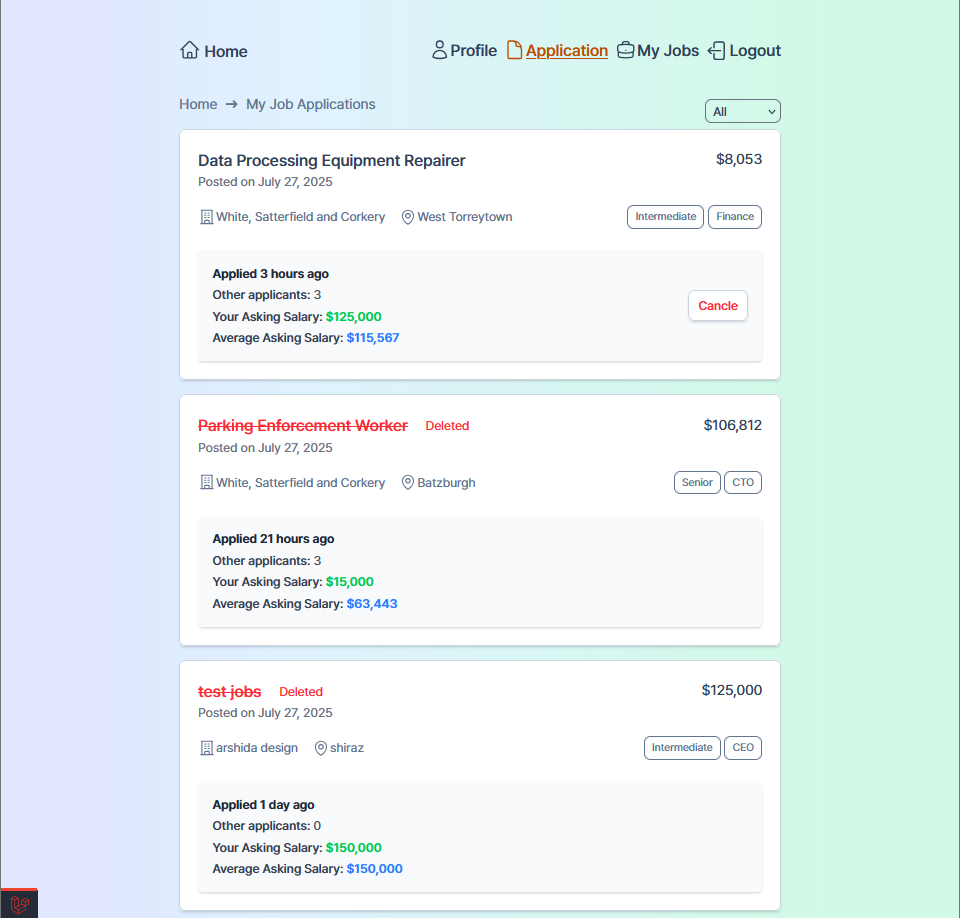
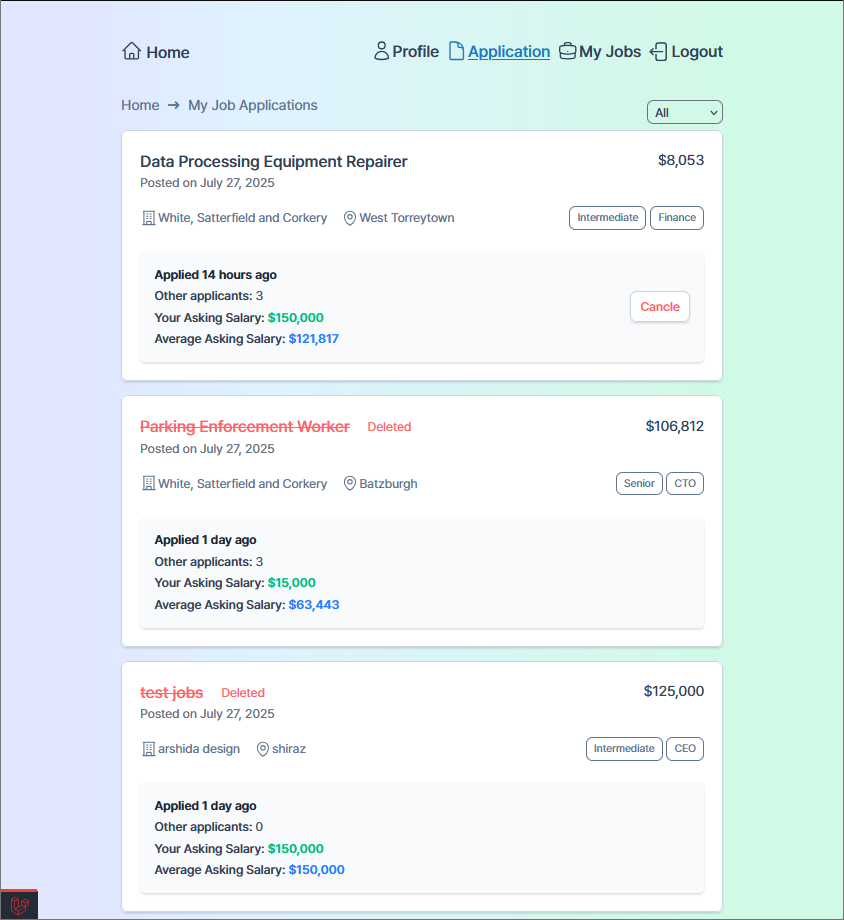
Rafactor ui

diff --git a/resources/views/auth/profile/index.blade.php b/resources/views/auth/profile/index.blade.php
@@ -1,24 +1,23 @@
 <x-layout>
     <x-breadcrumbs class="mb-4" :links="['Profile' => '#']" />
     <x-card class="space-y-4">
-        <h2 class="text-xl font-semibold text-gray-800">Your Profile</h2>
+        <div class="flex items-center justify-between">
+            <div><h2 class="text-xl font-semibold text-gray-800">Your Profile</h2></div>
+            <div class="text-sm text-slate-500"><span class="font-medium">Member since:</span> {{ auth()->user()->created_at->format('F Y') }}</div>
+        </div>
 
-        <div class="flex items-center space-x-4">
-            <div class="w-13 h-13 rounded-full bg-gray-200 flex items-center justify-center text-2xl text-gray-600">
-                <img  src="{{asset('images/profile.png')}}" alt="Profile picture">
+
+        <div class="flex items-center space-x-4 mt-6">
+            <div class="w-13 h-13 rounded-full bg-gray-200  flex items-center justify-center text-2xl text-gray-600">
+                <img src="{{ asset('images/profile.png') }}" alt="Profile picture">
             </div>
             <div>
                 <p class="text-lg font-medium text-gray-700">{{ auth()->user()->name }}</p>
                 <p class="text-sm text-gray-500">{{ auth()->user()->email }}</p>
             </div>
         </div>
-
-        <div class="grid grid-cols-1 sm:grid-cols-2 gap-4 pt-4 text-gray-600">
-            <div><span class="font-medium">Member since:</span> {{ auth()->user()->created_at->format('F Y') }}</div>
-
-        </div>
-        <div class="mt-6">
-            <h3 class="text-lg font-semibold text-gray-800 mb-2">Your Job Statistics</h3>
+        <div class="mt-15">
+            <h3 class="text-lg font-semibold text-gray-800 mb-6">Your Job Statistics</h3>
             <div class="grid grid-cols-1 sm:grid-cols-2 gap-4">
                 <a href="{{ route('my-job-applications.index') }}">
                     <div class="rounded-lg border border-gray-200 p-4 shadow-sm bg-white">
@@ -27,7 +26,7 @@
                             Active:
                             {{ auth()->user()->jobApplications()->whereHas('job', fn($q) => $q->whereNull('deleted_at'))->count() ?? 0 }}
                         </p>
-                        <p class=" font-bold text-red-500">
+                        <p class=" font-bold text-red-400">
                             Deleted:
                             {{ auth()->user()->jobApplications()->whereHas('job', fn($q) => $q->onlyTrashed())->count() ?? 0 }}
                         </p>
@@ -46,7 +45,7 @@
                             <p class=" font-bold text-green-600">
                                 Active: {{ auth()->user()->employer?->jobs()->count() ?? 0 }}
                             </p>
-                            <p class=" font-bold text-red-500">
+                            <p class=" font-bold text-red-400">
                                 Deleted: {{ auth()->user()->employer?->jobs()->onlyTrashed()->count() ?? 0 }}
                             </p>
                         </div>
@@ -62,7 +61,7 @@
             @endphp
 
             <div class="mt-10">
-                <h3 class="text-lg font-semibold text-gray-800 mb-2">Your Sessions</h3>
+                <h3 class="text-lg font-semibold text-gray-800 mb-6">Your Sessions</h3>
                 <div class="rounded-lg border border-gray-200 p-4 shadow-sm bg-white">
                     @forelse ($sessions as $session)
                         <div
@@ -84,9 +83,15 @@
                                 <form method="POST" action="{{ route('sessions.destroy', $session->id) }}">
                                     @csrf
                                     @method('DELETE')
-                                    <button class="cursor-pointer bg-red-500 hover:bg-red-600 text-white text-sm px-3 py-1 rounded">
-                                        Logout
-                                    </button>
+                                    <div
+                                        class="flex items-center justify-between cursor-pointer  text-white text-sm  px-3 py-1 rounded bg-red-400 hover:bg-red-500">
+                                        <div><svg xmlns="http://www.w3.org/2000/svg" fill="none" viewBox="0 0 24 24"
+                                                stroke-width="1.5" stroke="currentColor" class="w-5 h-5">
+                                                <path stroke-linecap="round" stroke-linejoin="round"
+                                                    d="M8.25 9V5.25A2.25 2.25 0 0 1 10.5 3h6a2.25 2.25 0 0 1 2.25 2.25v13.5A2.25 2.25 0 0 1 16.5 21h-6a2.25 2.25 0 0 1-2.25-2.25V15m-3 0-3-3m0 0 3-3m-3 3H15" />
+                                            </svg></div>
+                                        <div><button class="cursor-pointer">Logout</button></div>
+                                    </div>
                                 </form>
                             @endif
                         </div>
@@ -98,19 +103,34 @@
 
         </div>
         <div class="pt-6 flex items-center justify-between">
-            <div class="flex">
-                <div class="mr-3"><a href="{{ route('auth.profile.edit') }}"
-                        class="inline-block bg-emerald-600 text-white text-sm px-4 py-2 rounded hover:bg-emerald-700 transition">
+            <div class="flex gap-3">
+                <div>
+                    <a href="{{ route('auth.profile.edit') }}"
+                        class="inline-flex items-center gap-1 bg-emerald-500 text-white text-sm px-4 py-2 rounded hover:bg-emerald-600 transition">
+                        <svg xmlns="http://www.w3.org/2000/svg" fill="none" viewBox="0 0 24 24" stroke-width="1.5"
+                            stroke="currentColor" class="w-5 h-5">
+                            <path stroke-linecap="round" stroke-linejoin="round"
+                                d="m16.862 4.487 1.687-1.688a1.875 1.875 0 1 1 2.652 2.652L10.582 16.07a4.5 4.5 0 0 1-1.897 1.13L6 18l.8-2.685a4.5 4.5 0 0 1 1.13-1.897l8.932-8.931Zm0 0L19.5 7.125M18 14v4.75A2.25 2.25 0 0 1 15.75 21H5.25A2.25 2.25 0 0 1 3 18.75V8.25A2.25 2.25 0 0 1 5.25 6H10" />
+                        </svg>
                         Edit Profile
-                    </a></div>
+                    </a>
+                </div>
+
                 @if (!is_null(auth()->user()->employer))
-                    <div><a href="{{ route('auth.company.edit') }}"
-                            class="inline-block bg-indigo-600 text-white text-sm px-4 py-2 rounded hover:bg-indigo-700 transition">
-                            Edit Company name
-                        </a></div>
+                    <div>
+                        <a href="{{ route('auth.company.edit') }}"
+                            class="inline-flex items-center gap-1 bg-indigo-500 text-white text-sm px-4 py-2 rounded hover:bg-indigo-700 transition">
+                            <svg xmlns="http://www.w3.org/2000/svg" fill="none" viewBox="0 0 24 24"
+                                stroke-width="1.5" stroke="currentColor" class="w-5 h-5">
+                                <path stroke-linecap="round" stroke-linejoin="round"
+                                    d="m16.862 4.487 1.687-1.688a1.875 1.875 0 1 1 2.652 2.652L10.582 16.07a4.5 4.5 0 0 1-1.897 1.13L6 18l.8-2.685a4.5 4.5 0 0 1 1.13-1.897l8.932-8.931Zm0 0L19.5 7.125M18 14v4.75A2.25 2.25 0 0 1 15.75 21H5.25A2.25 2.25 0 0 1 3 18.75V8.25A2.25 2.25 0 0 1 5.25 6H10" />
+                            </svg>
+                            Edit Company Name
+                        </a>
+                    </div>
                 @endif
             </div>
-
         </div>
+
     </x-card>
 </x-layout>

diff --git a/resources/views/components/layout.blade.php b/resources/views/components/layout.blade.php
@@ -26,7 +26,7 @@
         </ul>
         <ul class="flex items-center space-x-2">
             @auth
-                <li class="hover:text-emerald-700 transition 300 {{request()->routeIs('auth.profile') ? 'text-emerald-700 underline':''}}">
+                <li class="hover:text-[#1b7bc0] transition 300 {{request()->routeIs('auth.profile') ? 'text-[#1b7bc0] underline':''}}">
                     <a href="{{ route('auth.profile') }}" class="flex items-center space-x-0">
                         <svg xmlns="http://www.w3.org/2000/svg" fill="none" viewBox="0 0 24 24" stroke-width="1.5"
                             stroke="currentColor" class="w-6 h-6">
@@ -37,7 +37,7 @@
                     </a>
 
                 </li>
-                <li class="hover:text-amber-700 transition 300 {{request()->routeIs(['my-job-applications.index']) ? 'text-amber-700 underline':''}}">
+                <li class="hover:text-[#1b7bc0] transition 300 {{request()->routeIs(['my-job-applications.index']) ? 'text-[#1b7bc0] underline':''}}">
                     <a href="{{ route('my-job-applications.index') }}" class="flex items-center space-x-0">
                         <svg xmlns="http://www.w3.org/2000/svg" fill="none" viewBox="0 0 24 24" stroke-width="1.5"
                             stroke="currentColor" class="size-6">
@@ -49,7 +49,7 @@
                     </a>
 
                 </li>
-                <li class="hover:text-purple-700 transition 300 flex items-center space-x-2 {{request()->routeIs(['my-jobs.index','my-jobs.create']) ? 'text-purple-700 underline':''}}">
+                <li class="hover:text-[#1b7bc0] transition 300 flex items-center space-x-2 {{request()->routeIs(['my-jobs.index','my-jobs.create']) ? 'text-[#1b7bc0] underline':''}}">
                     <a href="{{ route('my-jobs.index') }}" class="flex items-center space-x-0">
                         <svg xmlns="http://www.w3.org/2000/svg" fill="none" viewBox="0 0 24 24" stroke-width="1.5"
                             stroke="currentColor" class="size-6">

diff --git a/resources/views/my_job_appliacation/index.blade.php b/resources/views/my_job_appliacation/index.blade.php
@@ -32,7 +32,7 @@
                     <div>
                         <span class="font-medium text-gray-700">Your Asking Salary:</span>
                         <span
-                            class="text-green-500 font-semibold">${{ number_format($application->expected_salary) }}</span>
+                            class="text-emerald-500 font-semibold">${{ number_format($application->expected_salary) }}</span>
                     </div>
 
                     <div>
@@ -42,7 +42,7 @@
                     </div>
                 </div>
                 @if (!$application->job->deleted_at)
-                    <div class="text-right text-red-500 ">
+                    <div class="text-right text-red-400 ">
                         <form action="{{ route('my-job-applications.destroy', $application) }}" method="POST">
                             @csrf
                             @method('DELETE')

diff --git a/resources/views/components/job-card.blade.php b/resources/views/components/job-card.blade.php
@@ -5,8 +5,8 @@
                 @if ($job->deleted_at)
                 <div class="flex items-center justify-between">
                     <div class="flex items-center">
-                        <h2 class="text-lg font-medium line-through text-red-500 ">{{ $job->title }} </h2>
-                        <span class="text-sm ml-5 text-red-500">Deleted</span>
+                        <h2 class="text-lg font-medium line-through text-red-400 ">{{ $job->title }} </h2>
+                        <span class="text-sm ml-5 text-red-400">Deleted</span>
                     </div>
                 </div>
                 @else
